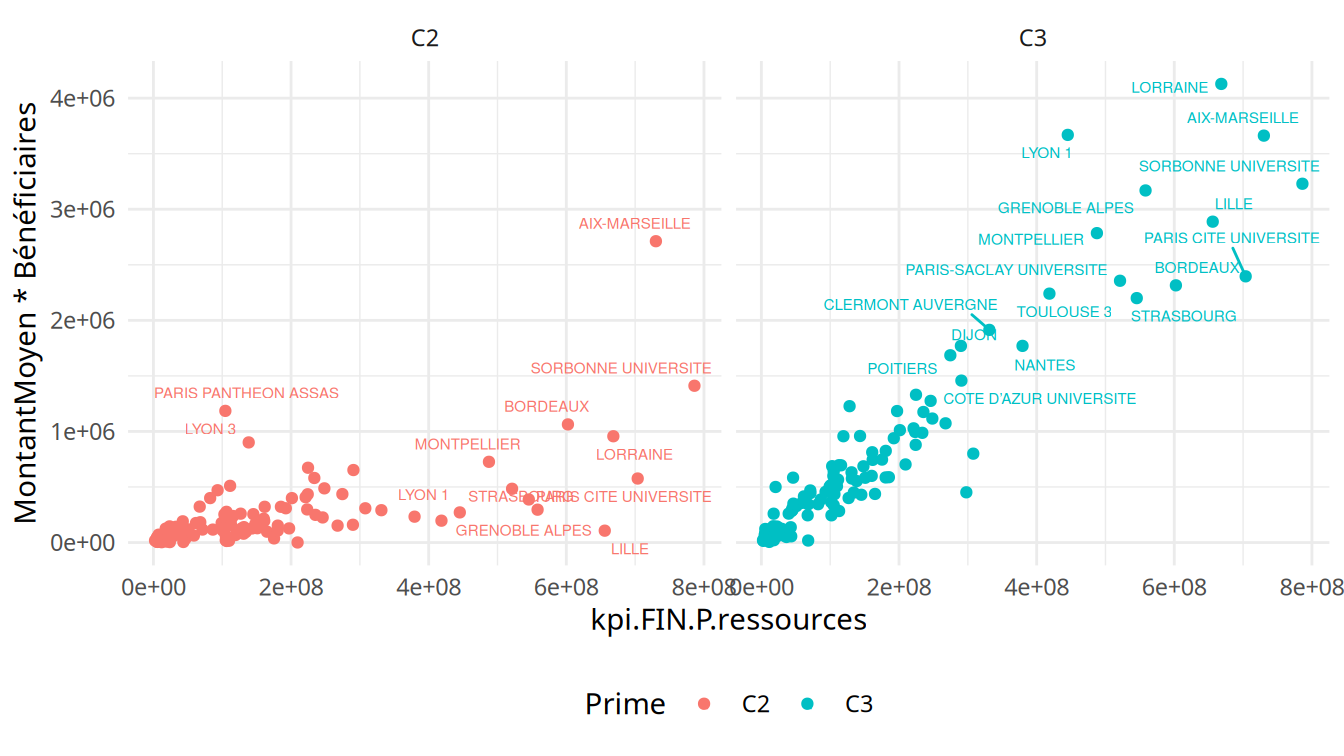
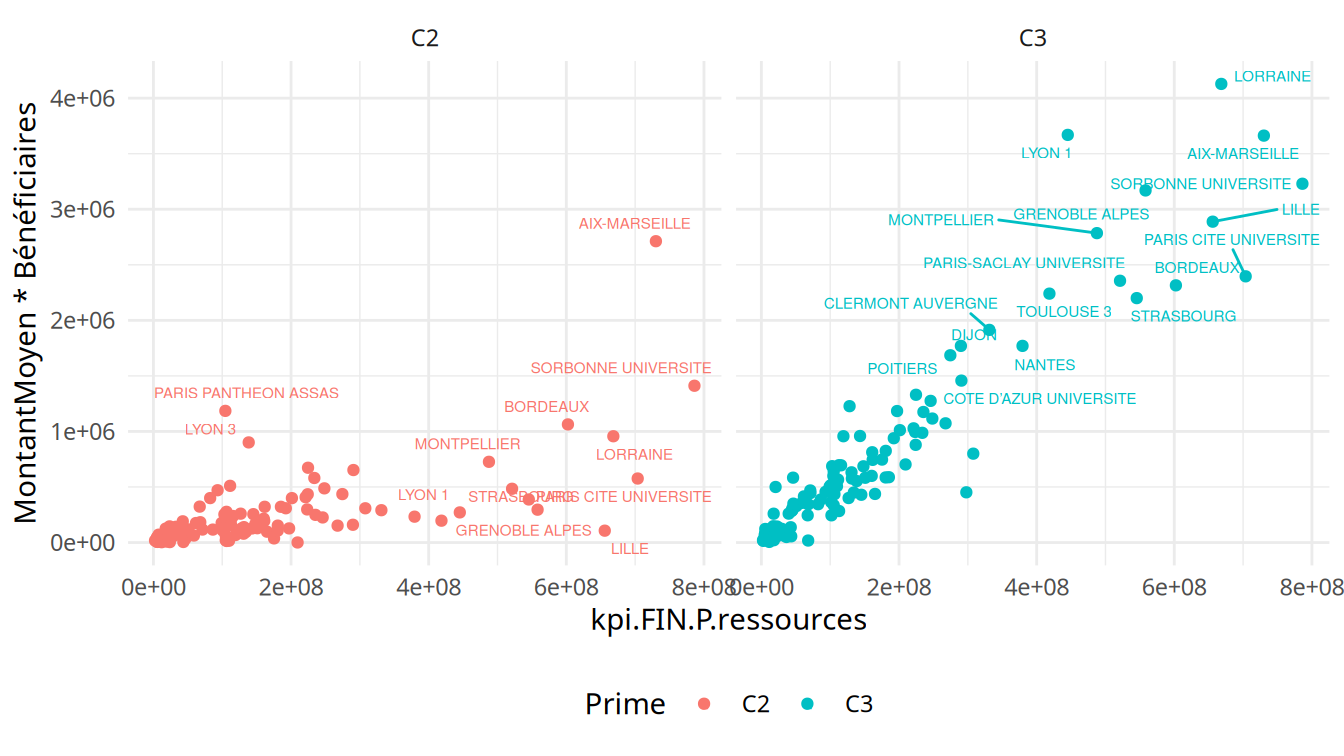
RIPEC

diff --git a/RIPEC/RIPEC.md b/RIPEC/RIPEC.md
@@ -1,7 +1,7 @@
 CPESR
 ================
 CPESR
-2024-12-07
+2024-12-09
 
 ## Données
 
@@ -13,8 +13,10 @@ CPESR
     ## New names:
     ## New names:
     ## New names:
+    ## New names:
     ## Joining with `by = join_by(UAI, Etablissement, Prime)`
     ## Joining with `by = join_by(UAI, Etablissement, Prime)`
+    ## Joining with `by = join_by(UAI, Prime)`
     ## • `` -> `...1`
     ## • `Effectif` -> `Effectif...3`
     ## • `Part de femmes` -> `Part.de.femmes...4`
@@ -50,8 +52,9 @@ CPESR
     ## Joining with `by = join_by(pid, Etablissement, Groupe, Groupe.détaillé,
     ## Comparable)`
 
-    ## [1] "UAI"           "Etablissement" "Prime"         "EC"           
-    ## [5] "Bénéficiaires" "MontantMoyen"
+    ##  [1] "UAI"            "Etablissement"  "Prime"          "EC"            
+    ##  [5] "Bénéficiaires"  "MontantMoyen"   "Candidats.2022" "Lauréats.2022" 
+    ##  [9] "Candidats.2023" "Lauréats.2023"
 
 ## Check
 
@@ -155,3 +158,30 @@ Groupes et périmètres
 <img src="RIPEC_files/figure-gfm/unnamed-chunk-13-1.png" width="672" />
 
 <img src="RIPEC_files/figure-gfm/unnamed-chunk-14-1.png" width="672" />
+
+    ## Warning: Removed 283 rows containing non-finite outside the scale range
+    ## (`stat_boxplot()`).
+
+<img src="RIPEC_files/figure-gfm/unnamed-chunk-15-1.png" width="672" />
+
+    ## Warning: Removed 69 rows containing missing values or values outside the scale range
+    ## (`geom_point()`).
+
+    ## Warning: Removed 69 rows containing missing values or values outside the scale range
+    ## (`geom_text_repel()`).
+
+    ## Warning: ggrepel: 25 unlabeled data points (too many overlaps). Consider
+    ## increasing max.overlaps
+
+<img src="RIPEC_files/figure-gfm/unnamed-chunk-16-1.png" width="672" />
+
+    ## Warning: Removed 67 rows containing missing values or values outside the scale range
+    ## (`geom_point()`).
+
+    ## Warning: Removed 67 rows containing missing values or values outside the scale range
+    ## (`geom_text_repel()`).
+
+    ## Warning: ggrepel: 26 unlabeled data points (too many overlaps). Consider
+    ## increasing max.overlaps
+
+<img src="RIPEC_files/figure-gfm/unnamed-chunk-17-1.png" width="672" />
